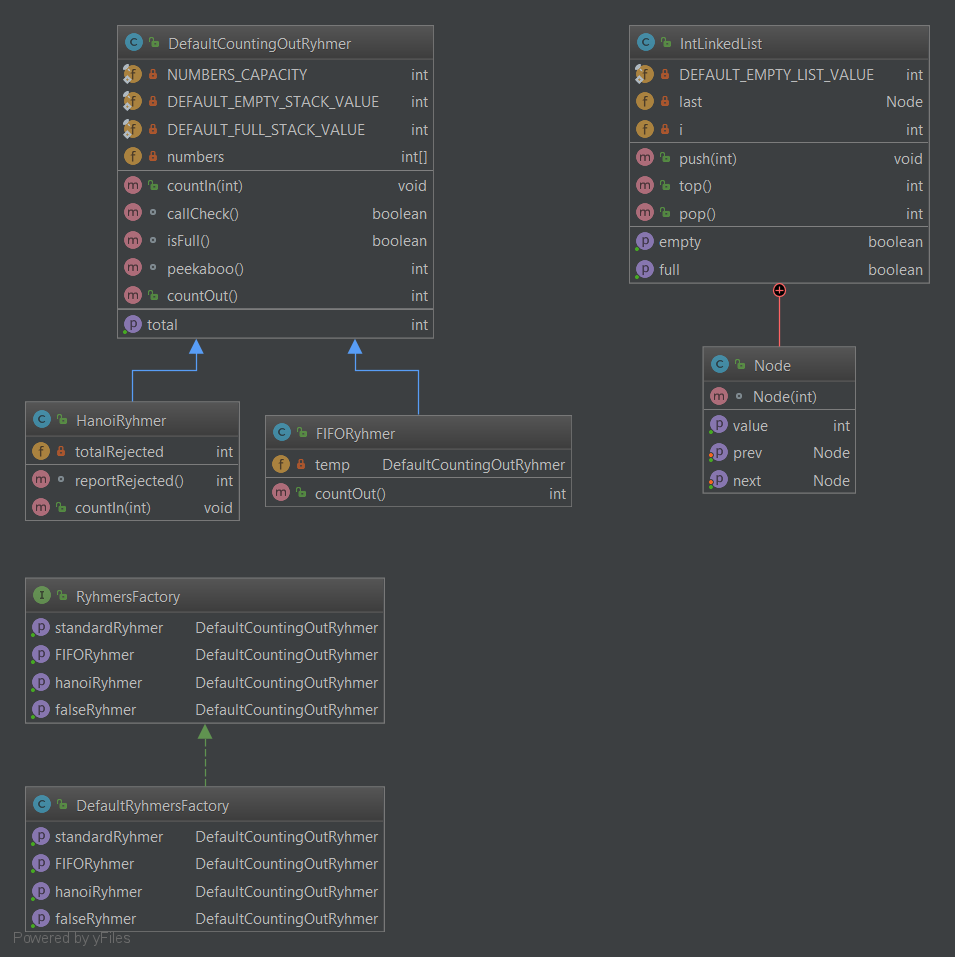
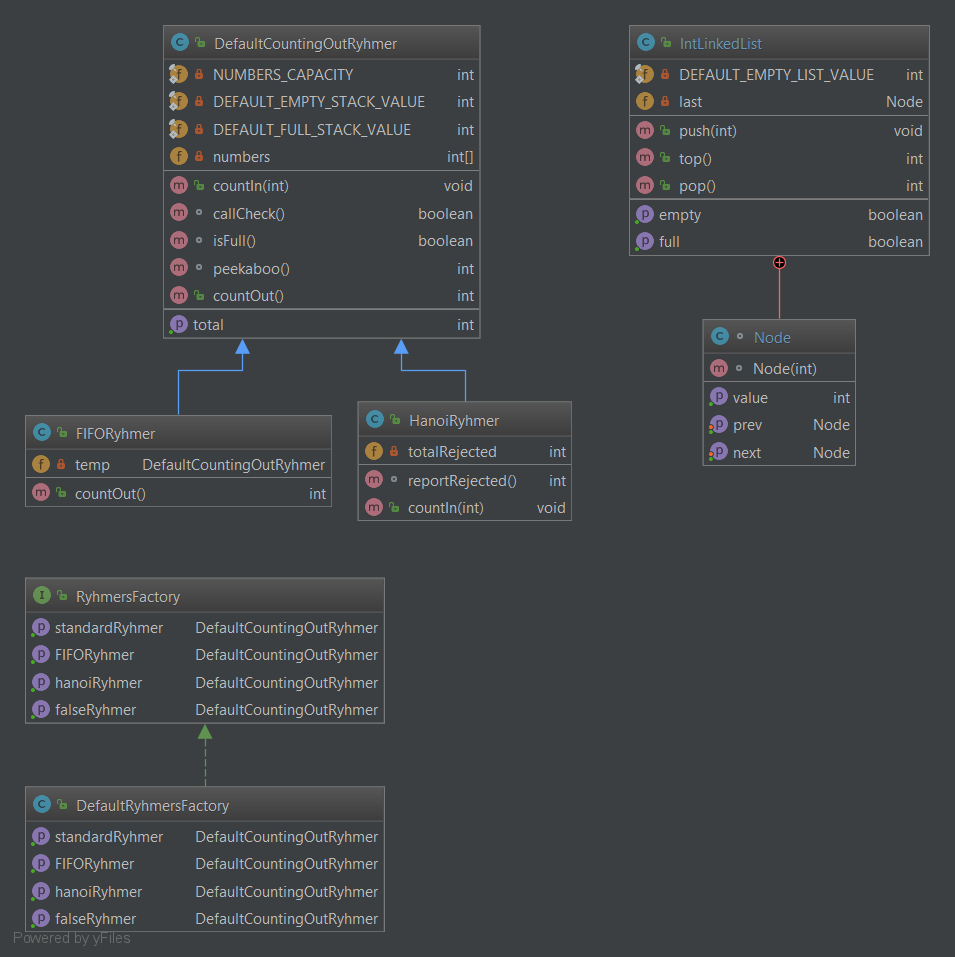
Final touches, update UML diagram for these changes

diff --git a/src/main/java/edu/kis/vh/nursery/list/IntLinkedList.java b/src/main/java/edu/kis/vh/nursery/list/IntLinkedList.java
@@ -13,7 +13,6 @@ public class IntLinkedList {
 	 * Last element of the list
 	 */
 	private Node last;
-	private int i;
 
 	/**
 	 * Pushes value as a last element of the list
@@ -70,7 +69,7 @@ public class IntLinkedList {
 	/**
 	 * Class being container of value and references to neighboring nodes. Single element of the list.
 	 */
-	public class Node {
+	 class Node {
 
 		/**
 		 * Value of node

diff --git a/src/main/java/edu/kis/vh/nursery/DefaultCountingOutRyhmer.java b/src/main/java/edu/kis/vh/nursery/DefaultCountingOutRyhmer.java
@@ -24,14 +24,14 @@ public class DefaultCountingOutRyhmer {
 
     int peekaboo() {
         if (callCheck())
-            return -1;
+            return DEFAULT_EMPTY_STACK_VALUE;
         return numbers[total];
     }
 
     public int countOut() {
 
         if (callCheck())
-            return -1;
+            return DEFAULT_EMPTY_STACK_VALUE;
         return numbers[total--];
     }
 
